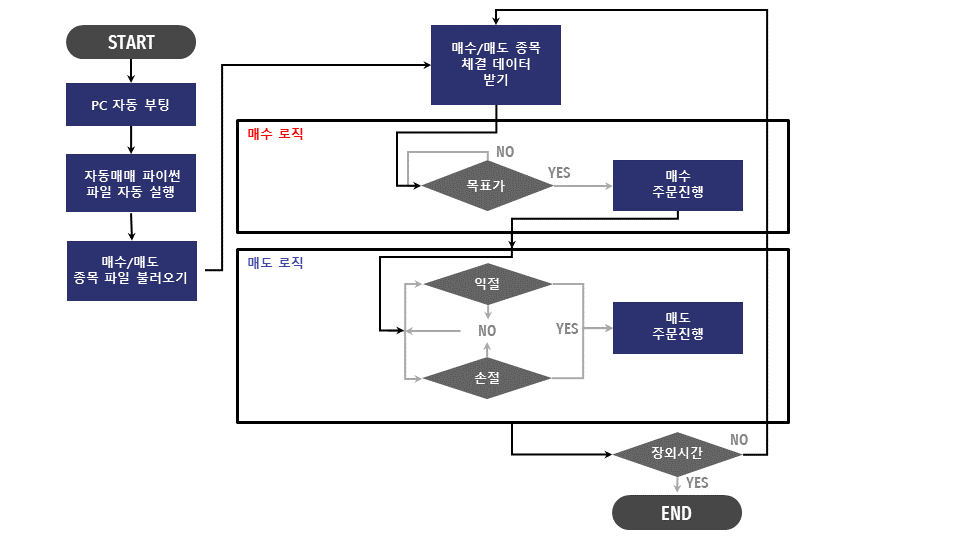
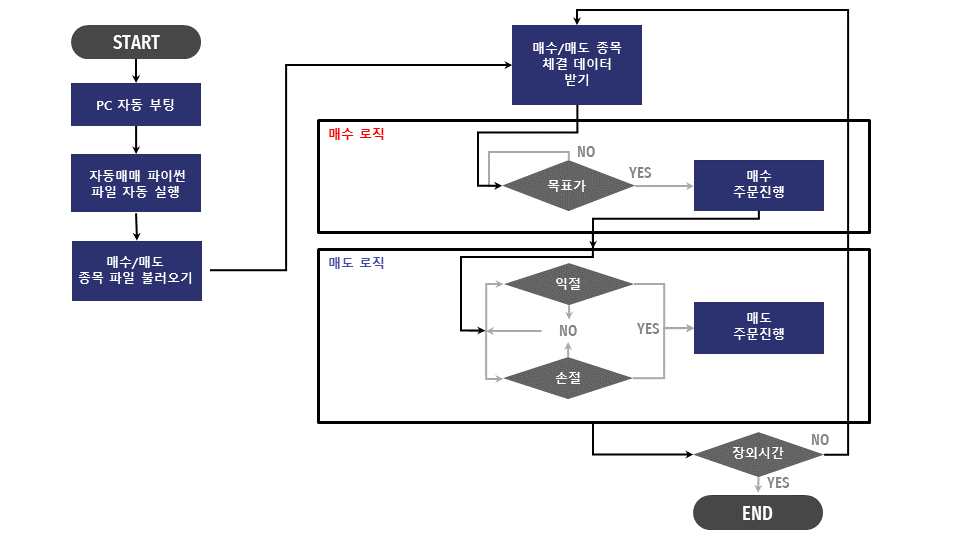
logic

diff --git a/_build/html/chapter7/7.3.4_ord_ebest.html b/_build/html/chapter7/7.3.4_ord_ebest.html
@@ -385,6 +385,7 @@ title="Print to PDF"
                 
   <section id="id1">
 <h1>자동으로 주문넣기<a class="headerlink" href="#id1" title="Permalink to this headline">#</a></h1>
+<p><img alt="GET_IMAGE" src="../_images/ebest_logic.png" /></p>
 <p>이번 절에는 매수와 매도 주문을 넣는 방법에 대해서 살펴 보겠습니다. 매수와 매도 모두 같은 요청 함수를 사용 합니다. 주문 요청 함수의 매개변수를 통해서 매수/매도를 구분하게 됩니다. 앞 절과 마찬가지로 다음과 같은 순서로 코드를 살펴 보겠습니다.</p>
 <ol>
   <li>변수를 관리하는 MyObjects 클래스</li>

diff --git a/_build/jupyter_execute/chapter7/7.3.4_ord_ebest.py b/_build/jupyter_execute/chapter7/7.3.4_ord_ebest.py
@@ -3,6 +3,8 @@
 
 # ## 자동으로 주문넣기
 
+# ![GET_IMAGE](images/ebest_logic.png)
+
 # 이번 절에는 매수와 매도 주문을 넣는 방법에 대해서 살펴 보겠습니다. 매수와 매도 모두 같은 요청 함수를 사용 합니다. 주문 요청 함수의 매개변수를 통해서 매수/매도를 구분하게 됩니다. 앞 절과 마찬가지로 다음과 같은 순서로 코드를 살펴 보겠습니다.
 # <ol>
 #   <li>변수를 관리하는 MyObjects 클래스</li>
